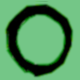
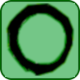
XO win

diff --git a/developer_notes.md b/developer_notes.md
@@ -13,3 +13,5 @@
 1/11/2023   Added win detection, Xwin and Owin game peices
 
 1/14/2023   More javascript refinements
+
+1/16/2023   Improved graphic for winning game peices
